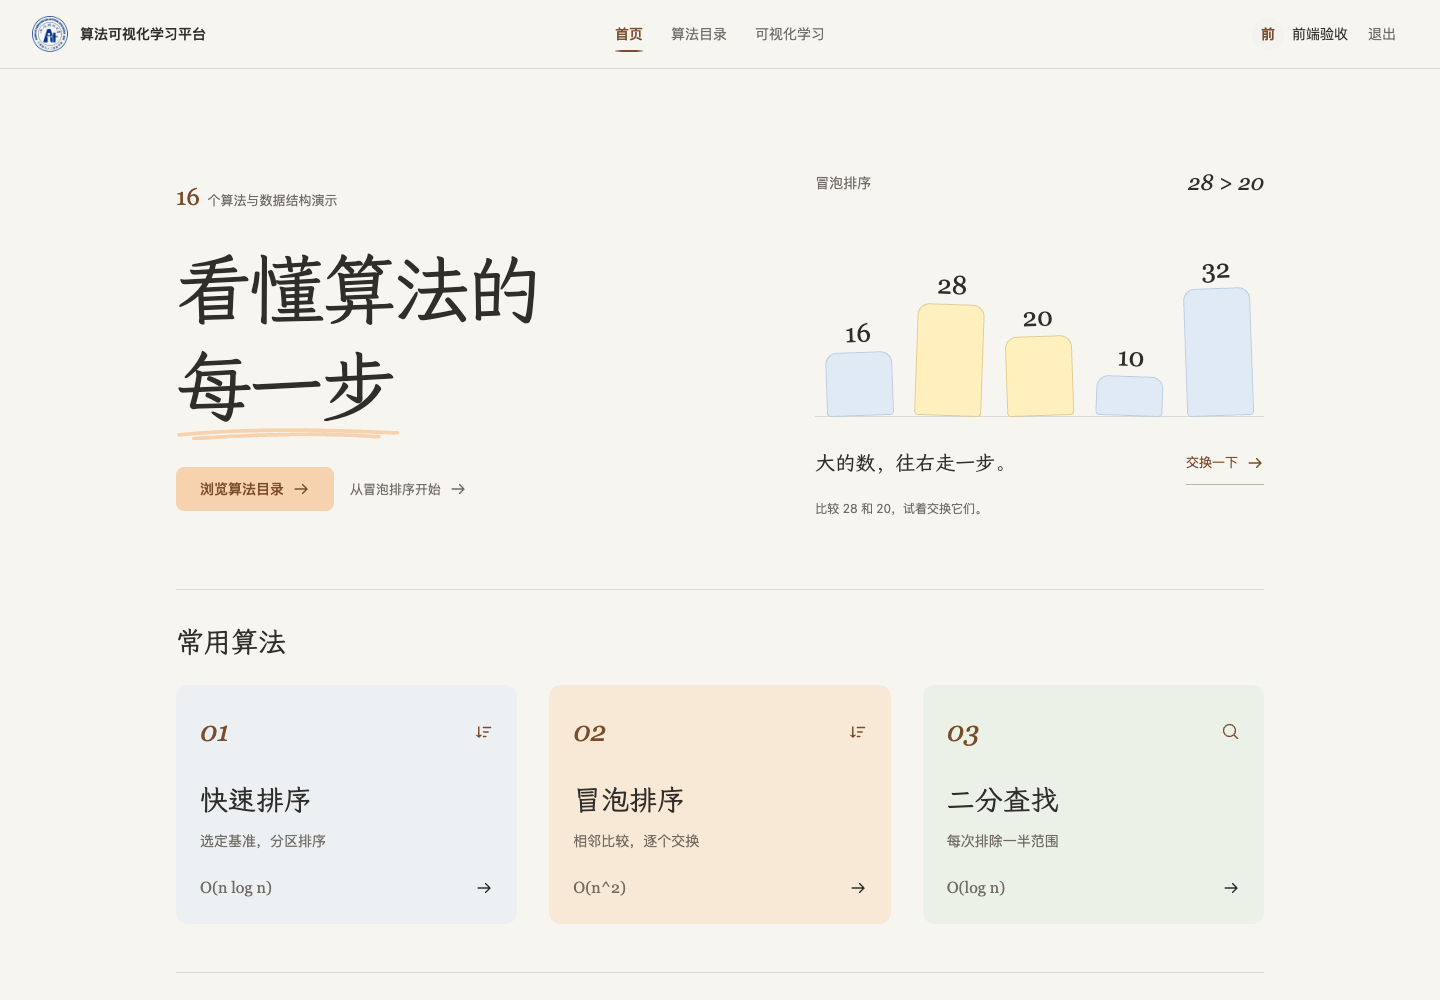
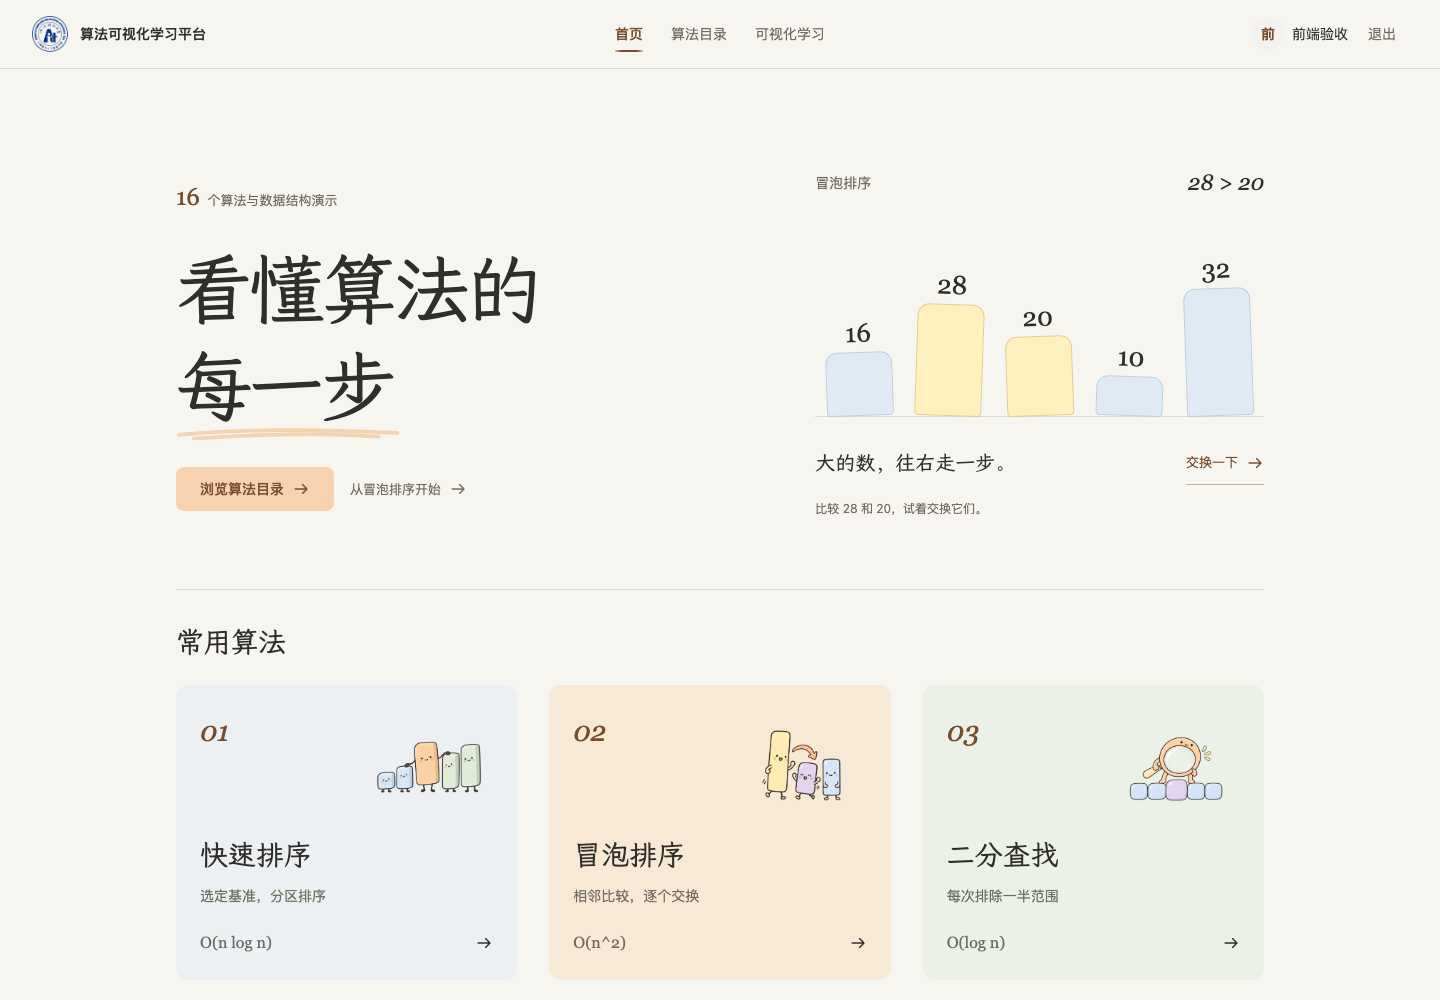
feat(ui): add playful algorithm card illustrations (#5)

diff --git a/frontend/src/styles.css b/frontend/src/styles.css
@@ -182,9 +182,10 @@ button:active:not(:disabled) { filter: brightness(.96); }
 .featured-card:hover { background: rgb(var(--viz-neutral) / .75); box-shadow: none; }
 .featured-card:nth-child(2):hover { background: rgb(var(--viz-pivot) / .65); }
 .featured-card:nth-child(3):hover { background: rgb(var(--viz-success)); }
-.feature-top { display: flex; align-items: center; justify-content: space-between; color: rgb(var(--accent-ink)); }
+.feature-top { display: flex; align-items: flex-start; justify-content: space-between; color: rgb(var(--accent-ink)); }
+.algorithm-illustration { display: block; width: 128px; height: 112px; object-fit: contain; flex-shrink: 0; pointer-events: none; }
 .feature-number { font-size: 28px; font-style: italic; }
-.feature-title { font-size: 28px; margin-top: 24px; }
+.feature-title { font-size: 28px; margin-top: 12px; }
 .category-section { padding-top: 24px; border-top: 1px solid rgb(var(--line)); }
 .category-link app-ui-icon { color: rgb(var(--accent-ink)); }
 .page-title { font-size: clamp(40px, 4vw, 56px); line-height: 1.3; }

diff --git a/frontend/src/app/components/learning-home/learning-home.component.html b/frontend/src/app/components/learning-home/learning-home.component.html
@@ -26,7 +26,7 @@
     <h3 class="section-title">常用算法</h3>
     <div class="featured-grid">
       <button *ngFor="let item of featured; let i = index" (click)="learn.emit(item.id)" class="featured-card text-left">
-        <span class="feature-top"><span class="math-type feature-number">0{{ i + 1 }}</span><app-ui-icon [name]="item.id === 'binary-search' ? 'search' : 'sort'" /></span>
+        <span class="feature-top"><span class="math-type feature-number">0{{ i + 1 }}</span><img class="algorithm-illustration" [src]="'assets/illustrations/' + item.id + '.png'" width="128" height="112" alt="" loading="lazy" decoding="async"></span>
         <h4 class="feature-title">{{ item.label }}</h4>
         <p class="mt-2 text-sm text-muted">{{ descriptions[item.id] }}</p>
         <span class="mt-6 flex items-center justify-between"><span class="math-type text-muted">{{ item.complexity }}</span><app-ui-icon name="arrow-right" /></span>

diff --git a/frontend/e2e/week-one.spec.ts b/frontend/e2e/week-one.spec.ts
@@ -66,7 +66,11 @@ for (const width of [390, 768, 1440]) {
     await page.setViewportSize({ width, height: 1000 });
     await session(page);
     await noOverflow(page);
+    await page.locator('.algorithm-illustration').evaluateAll(images => Promise.all(images.map(image => (image as HTMLImageElement).decode())));
     await capture(page, `home-${width}`);
+    await page.locator('.featured-section').scrollIntoViewIfNeeded();
+    await noOverflow(page);
+    await capture(page, `home-cartoons-${width}`);
     await page.getByRole('button', { name: '浏览算法目录' }).click();
     await page.getByLabel('搜索算法').fill('BFS');
     await expect(page.locator('.catalog-row')).toHaveCount(1);

diff --git a/frontend/src/assets/illustrations/PROMPTS.md b/frontend/src/assets/illustrations/PROMPTS.md
@@ -1,0 +1,16 @@
+# 算法卡片插画
+
+2026-09-08，使用内置 image_gen 生成的三张原创卡通插画。完整 PNG 保留透明通道；用于首页装饰，不替代教学图形和可访问的文字名称。运行时不连接外部图片服务。
+
+## [quick-sort.png](quick-sort.png)
+
+Use case: illustration-story. Asset type: one small cartoon spot illustration for an elegant Chinese algorithm-learning website card. Create an original charming flat editorial cartoon, gentle hand-drawn charcoal outlines, rounded slightly imperfect silhouettes, sparse details, refined not babyish. Palette ONLY soft apricot #F8D6AF, powder blue #DFEAF5, butter yellow #FFF0BE, pale lavender #E4D7EC, sage #E3EFDF and charcoal #302E2A. Truly transparent background with alpha, no white panel, no checkerboard, no drop shadow. Centered compact composition occupying 80% of a square canvas, legible at 100px. No letters, numbers, text, watermark, branding, border or scene background. Subject: quick sort as a thoughtful apricot rounded rectangular block character acting as a pivot in the center, with two simple arms gently arranging two smaller powder-blue blocks to its left and two taller sage blocks to its right. Tiny dot eyes and a quiet playful smile. Clear sorting metaphor, 5 blocks total, no extra accessories.
+
+## [bubble-sort.png](bubble-sort.png)
+
+Use case: illustration-story. Asset type: one small cartoon spot illustration for an elegant Chinese algorithm-learning website card. Create an original charming flat editorial cartoon, gentle hand-drawn charcoal outlines, rounded slightly imperfect silhouettes, sparse details, refined not babyish. Palette ONLY soft apricot #F8D6AF, powder blue #DFEAF5, butter yellow #FFF0BE, pale lavender #E4D7EC, sage #E3EFDF and charcoal #302E2A. Truly transparent background with alpha, no white panel, no checkerboard, no drop shadow. Centered compact composition occupying 80% of a square canvas, legible at 100px. No letters, numbers, text, watermark, branding, border or scene background. Subject: bubble sort as two friendly rounded bar characters, one tall butter-yellow bar and one short lavender bar, swapping places with a single curved apricot swoosh above them. Small dot eyes and cheerful understated expressions, little relaxed arms. Add one small stationary powder-blue bar to ground the sorting metaphor. Three blocks only, spacious silhouette.
+
+## [binary-search.png](binary-search.png)
+
+Use case: illustration-story. Asset type: one small cartoon spot illustration for an elegant Chinese algorithm-learning website card. Create an original charming flat editorial cartoon, gentle hand-drawn charcoal outlines, rounded slightly imperfect silhouettes, sparse details, refined not babyish. Palette ONLY soft apricot #F8D6AF, powder blue #DFEAF5, butter yellow #FFF0BE, pale lavender #E4D7EC, sage #E3EFDF and charcoal #302E2A. Truly transparent background with alpha, no white panel, no checkerboard, no drop shadow. Centered compact composition occupying 80% of a square canvas, legible at 100px. No letters, numbers, text, watermark, branding, border or scene background. Subject: binary search as a friendly apricot magnifying glass character peering at the middle lavender block in a neat row of five rounded powder-blue blocks. Tiny dot eyes on the glass rim, subtle smile, the middle block slightly enlarged inside the clear lens. Simple clean silhouette and an inquisitive personality.
+

diff --git a/docs/issue-5-delivery.md b/docs/issue-5-delivery.md
@@ -59,6 +59,14 @@
 
 生产构建、10 项单元测试和 12 项真实后端浏览器测试通过。新增字体加载、交换/还原、快速点击、键盘操作、页面重置与减少动态效果的验证。更新全部三个尺寸截图并增加[交换后截图](screenshots/issue-5/home-exchange-390.png)。人工检查首页、目录、学习页和登录截图，未发现横向溢出、按钮遮挡或字体加载缺失。
 
+## 首页卡通插画
+
+使用内置 image_gen 生成并保存三张透明背景原创插画：快速排序的分组积木、冒泡排序的交换伙伴、二分查找的放大镜。位于首页常用算法卡片，统一粉彩与深色手绘轮廓；不替代真实教学图形、操作 SVG 或学院标识。
+
+图片本地托管、延迟加载并预留固定尺寸，装饰图的空 `alt` 避免重复朗读按钮名称。生成原图与[完整提示词](../frontend/src/assets/illustrations/PROMPTS.md)一并提交。
+
+本轮生产构建与 12 项浏览器测试通过，图片解码成功；复核卡片在 [390px](screenshots/issue-5/home-cartoons-390.png)、[768px](screenshots/issue-5/home-cartoons-768.png)、[1440px](screenshots/issue-5/home-cartoons-1440.png) 下的清晰度、留白和入口可用性。
+
 ## 本地验证
 
 后端与数据库使用现有 Docker 配置，在仓库根目录启动：
@@ -81,7 +89,7 @@ npm run test:e2e
 
 ## 验收记录
 
-生产构建通过；ChromeHeadless 单元测试 10/10 通过；真实后端浏览器流程 12/12 通过。截图复核发现并修复登录页遗留深色背景和 3D 画布宽度问题；相关登录、详情、对比及多尺寸图形用例在最终调整后再次验证。共保存 34 张本轮截图。截图以 1000px 视口高度拍摄；页面内部可纵向滚动，宽图在图形区域内滚动。
+生产构建通过；ChromeHeadless 单元测试 10/10 通过；真实后端浏览器流程 12/12 通过。截图复核发现并修复登录页遗留深色背景和 3D 画布宽度问题；相关登录、详情、对比及多尺寸图形用例在最终调整后再次验证。共保存 37 张本轮截图。截图以 1000px 视口高度拍摄；页面内部可纵向滚动，宽图在图形区域内滚动。
 
 | 页面 | 390px | 768px | 1440px |
 | --- | --- | --- | --- |
